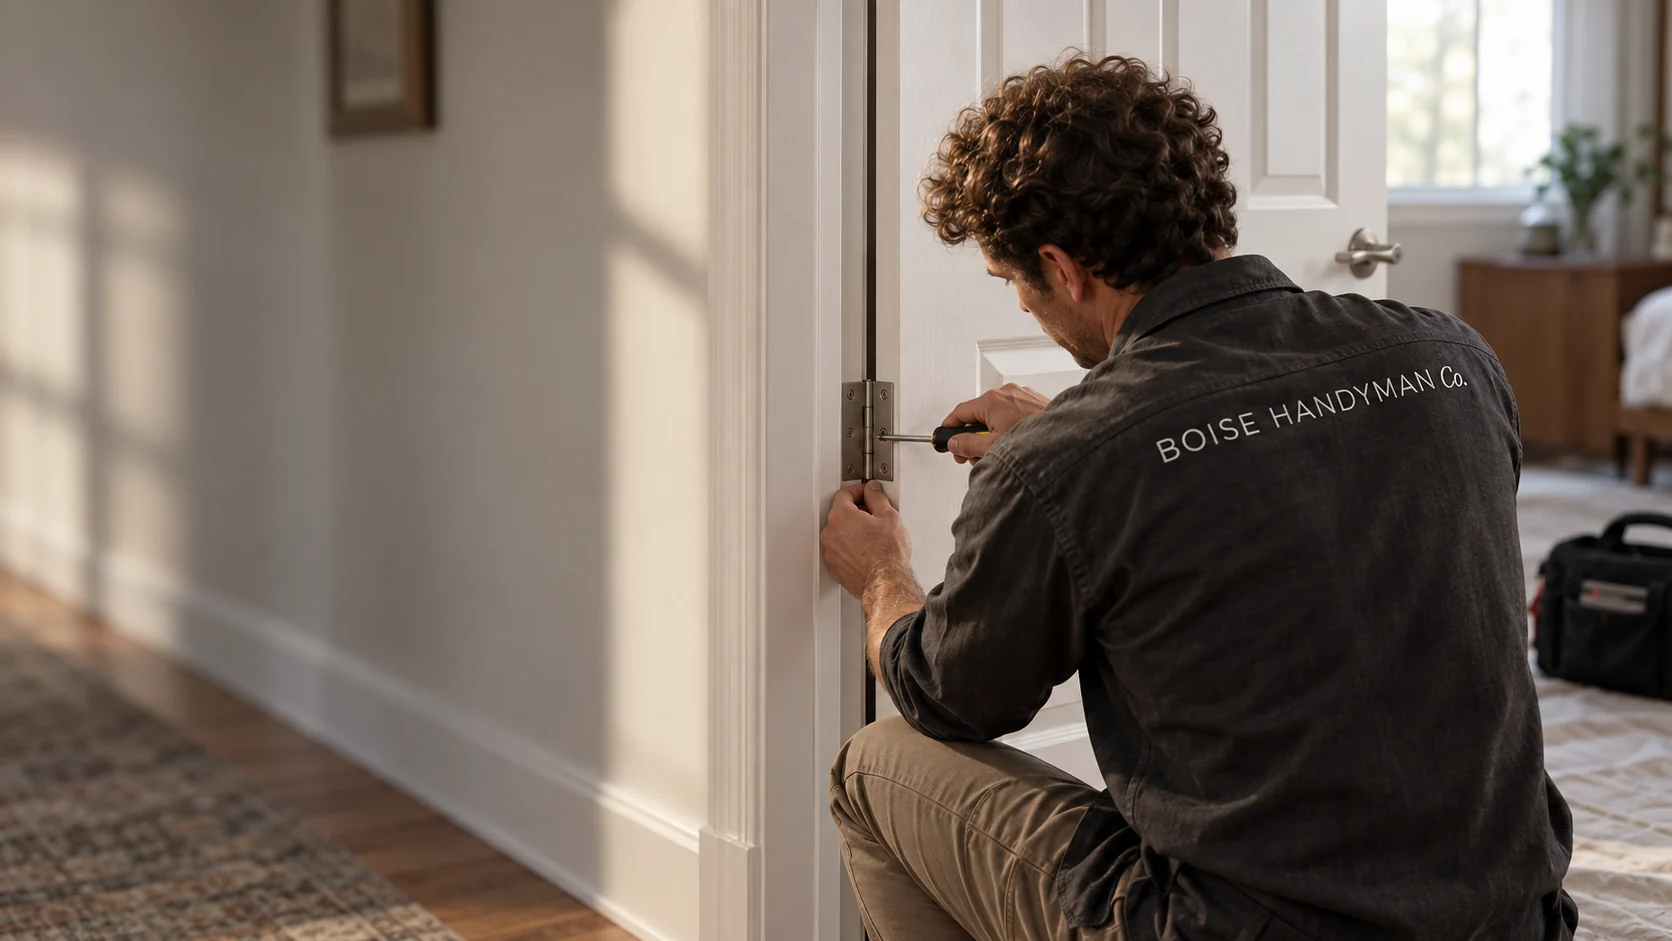
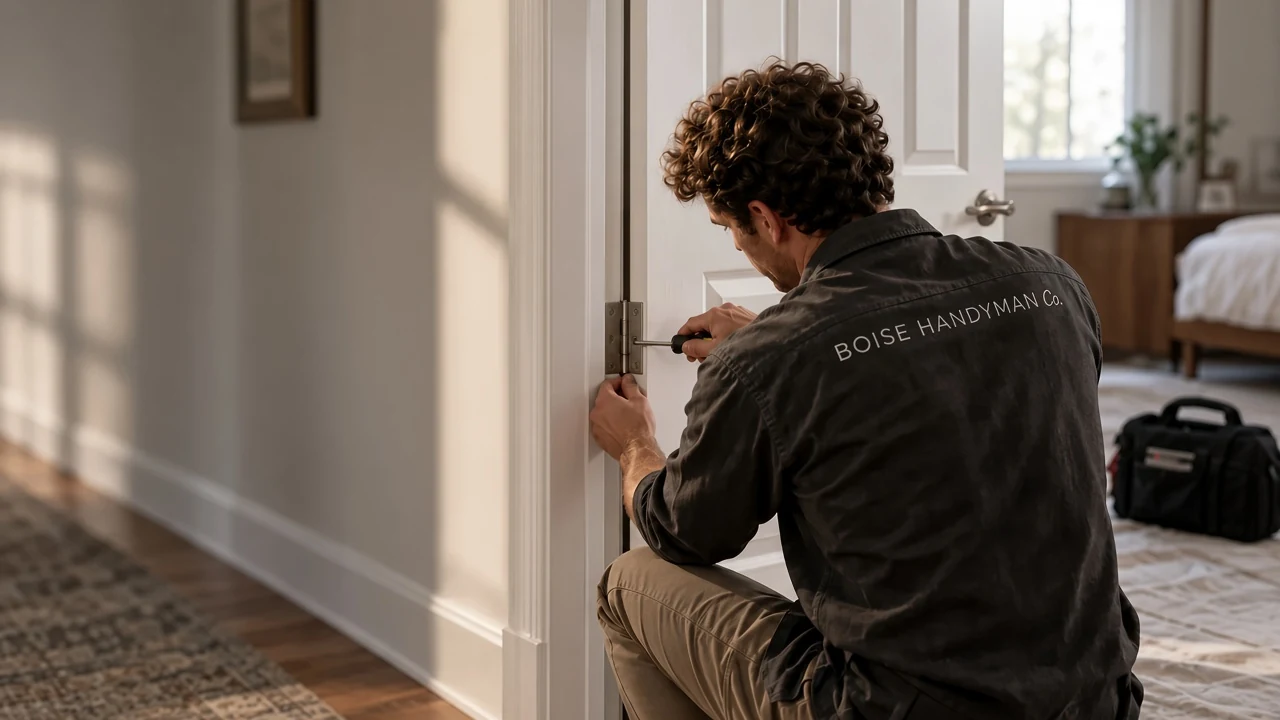
Fix Standard v2.0 must-fixes M1–M5 on home chrome and hero
Replace the home hero asset with a complete-head composition, enforce
people-safe contain framing, tighten C3 hero budgets, reduce the mobile
bottom bar to Call+Send at B6 sizes, lock header 64/76, and align Part B
section/gutter/Display tokens via design-v2-compliance.css.

diff --git a/app/design-v2-compliance.css b/app/design-v2-compliance.css
@@ -1,0 +1,276 @@
+/**
+ * Standard v2.0 compliance (Parts B / C3 / C4 / C6 / C7).
+ * Loaded after approved-system and audit-accessibility so these win the cascade.
+ */
+
+.approved-shell {
+  --gutter: 20px;
+  --section-y: 64px;
+  --section-y-compact: 32px;
+  --section-y-feature: 80px;
+  --header-h: 64px;
+  --bottom-bar-h: calc(48px + 24px + env(safe-area-inset-bottom, 0px));
+}
+
+@media (min-width: 640px) {
+  .approved-shell {
+    --gutter: 32px;
+    --section-y: 80px;
+    --section-y-compact: 48px;
+    --section-y-feature: 96px;
+    --header-h: 76px;
+  }
+}
+
+@media (min-width: 1024px) {
+  .approved-shell {
+    --gutter: 48px;
+    --section-y: 96px;
+    --section-y-feature: 128px;
+    --header-h: 76px;
+  }
+}
+
+/* M4 / C6: sticky header 64 phone / 76 tablet+desktop (+ safe-area only on top inset if present). */
+.approved-shell [data-approved-navigation] > nav {
+  height: var(--header-h) !important;
+  min-height: var(--header-h);
+  max-height: var(--header-h);
+  padding-inline: var(--gutter) !important;
+  box-sizing: border-box;
+}
+.approved-shell [data-approved-navigation] {
+  padding-top: env(safe-area-inset-top, 0px);
+}
+
+/* M5: Part B section-y + gutters for marketing sections. */
+.approved-shell .section-y {
+  padding-block: var(--section-y) !important;
+}
+.approved-shell .section-y-sm {
+  padding-block: var(--section-y-compact) !important;
+}
+.approved-shell .section-y-lg {
+  padding-block: var(--section-y-feature) !important;
+}
+.approved-shell .family-site .f-section {
+  padding-block: var(--section-y) !important;
+}
+.approved-shell .family-site .f-container,
+.approved-shell .ed-shell {
+  width: min(1260px, calc(100% - (2 * var(--gutter)))) !important;
+  max-width: none;
+  margin-inline: auto;
+  padding-inline: 0;
+}
+.approved-shell .container {
+  padding-inline: var(--gutter) !important;
+}
+
+/* M5 / S1: Display clamp to B3 (36 / 52 / 64). */
+.approved-shell .family-site h1,
+.approved-shell .family-site .f-hero h1,
+.approved-shell .family-handyman .f-hero h1 {
+  font-size: clamp(36px, 5vw + 1rem, 64px) !important;
+  line-height: 1.05;
+  letter-spacing: -0.02em;
+}
+
+/* M3 / C7: bottom bar height budget for page clearance. */
+.approved-shell {
+  padding-bottom: var(--bottom-bar-h) !important;
+}
+@media (min-width: 1180px) {
+  .approved-shell {
+    padding-bottom: 0 !important;
+    --bottom-bar-h: 0px;
+  }
+}
+.approved-shell [data-mobile-nav-bar] {
+  min-height: 0 !important;
+}
+.approved-shell [data-mobile-nav-bar] :is(a, button) {
+  min-height: 48px !important;
+  height: 48px;
+}
+
+/* ─── M1 + M2: home hero ─── */
+
+/* Desktop/tablet: auto height (do not fill the viewport). Complete hero must fit 1280×720. */
+.approved-shell .family-site .f-hero,
+.approved-shell .family-handyman .f-hero {
+  height: auto !important;
+  min-height: 0 !important;
+  max-height: none !important;
+}
+
+.approved-shell .family-handyman .f-hero > img {
+  /* People-safe: contain so cover never clips the crown on any viewport. */
+  min-height: 0 !important;
+  object-fit: contain !important;
+  object-position: center top !important;
+  background: #1c1f1e;
+}
+
+.approved-shell .family-handyman .f-hero-copy {
+  padding: clamp(32px, 4vw, 64px) clamp(24px, 6vw, 10%);
+}
+
+.approved-shell .family-handyman .f-button-secondary {
+  background: transparent;
+  color: #fbfaf6;
+  border: 1px solid rgba(251, 250, 246, 0.55);
+}
+
+/* Phone: compact first screen — H1 + primary CTA in budget; complete hero at 360/390. */
+@media (max-width: 700px) {
+  .approved-shell {
+    --bottom-bar-h: calc(48px + 24px + env(safe-area-inset-bottom, 0px));
+  }
+
+  .approved-shell .family-site .f-hero,
+  .approved-shell .family-handyman .f-hero {
+    display: grid !important;
+    grid-template-columns: minmax(0, 1fr) !important;
+    grid-template-rows: auto auto;
+    align-items: stretch;
+    position: relative;
+    isolation: isolate;
+    height: auto !important;
+    min-height: 0 !important;
+    max-height: none !important;
+    background: #1c1f1e;
+  }
+
+  /* People-safe: intrinsic 16:9 row — no max-height crop; heads stay complete. */
+  .approved-shell .family-site .f-hero > img,
+  .approved-shell .family-handyman .f-hero > img {
+    position: relative !important;
+    inset: auto !important;
+    z-index: 0;
+    grid-column: 1;
+    grid-row: 1;
+    width: 100%;
+    height: auto !important;
+    max-height: none !important;
+    min-height: 0 !important;
+    object-fit: contain !important;
+    object-position: center top !important;
+    background: #1c1f1e;
+  }
+
+  .approved-shell .family-site .f-hero-shade,
+  .approved-shell .family-handyman .f-hero-shade {
+    display: none !important;
+  }
+
+  .approved-shell .family-site .f-hero-copy,
+  .approved-shell .family-handyman .f-hero-copy {
+    position: relative;
+    z-index: 1;
+    grid-column: 1;
+    grid-row: 2;
+    width: calc(100% - (2 * var(--gutter)));
+    margin: 0 auto;
+    padding: 20px 0 16px !important;
+    background: #1c1f1e;
+    color: #fbfaf6;
+  }
+
+  .approved-shell .family-site .f-hero .f-eyebrow {
+    margin-bottom: 10px !important;
+  }
+
+  .approved-shell .family-site .f-hero h1 {
+    font-size: clamp(32px, 9vw, 40px) !important;
+    margin-bottom: 10px !important;
+  }
+
+  /* C3 sequence: shorten support copy on short phones. */
+  .approved-shell .family-site .f-hero-intro {
+    font-size: 15px;
+    line-height: 1.5;
+    max-width: 34ch;
+    margin: 0;
+    color: #eceae3;
+  }
+
+  .approved-shell .family-site .f-hero .f-actions {
+    margin-top: 14px;
+    gap: 10px;
+    flex-direction: column;
+    align-items: stretch;
+  }
+
+  .approved-shell .family-site .f-hero .f-actions .f-button {
+    width: 100%;
+    min-width: 0;
+    min-height: 48px !important;
+    height: 48px;
+    padding-block: 0;
+  }
+
+  /* One primary in the first screen; Call lives in the bottom bar. */
+  .approved-shell .family-site .f-hero .f-button-secondary,
+  .approved-shell .family-site .f-hero .f-link,
+  .approved-shell .family-site .f-hero .estimator-promise,
+  .approved-shell .family-site .f-hero .f-hero-stamp,
+  .approved-shell .family-site .f-hero .f-hero-foot {
+    display: none !important;
+  }
+}
+
+/* Very short phone (320×568): keep H1 + primary CTA only (C3 sequence — shorten copy, not crop people). */
+@media (max-width: 360px) and (max-height: 640px) {
+  .approved-shell .family-site .f-hero-intro {
+    display: none !important;
+  }
+  .approved-shell .family-site .f-hero-copy {
+    padding: 14px 0 12px !important;
+  }
+  .approved-shell .family-site .f-hero h1 {
+    font-size: clamp(30px, 8.5vw, 36px) !important;
+    margin-bottom: 8px !important;
+  }
+}
+
+@media (max-width: 360px) {
+  .approved-shell {
+    --gutter: 16px;
+  }
+}
+
+/* Desktop complete-hero budget for 1280×720: keep split compact. */
+@media (min-width: 701px) {
+  .approved-shell .family-handyman .f-hero {
+    grid-template-columns: minmax(0, 1fr) minmax(0, 1fr);
+  }
+  .approved-shell .family-handyman .f-hero > img {
+    height: auto !important;
+    max-height: min(520px, calc(100svh - var(--header-h) - 24px));
+    width: 100%;
+    align-self: center;
+    object-fit: contain !important;
+    object-position: center top !important;
+    background: #1c1f1e;
+  }
+  .approved-shell .family-handyman .f-hero-copy {
+    display: flex;
+    flex-direction: column;
+    justify-content: center;
+    max-height: min(520px, calc(100svh - var(--header-h) - 24px));
+  }
+  .approved-shell .family-handyman .f-hero-intro {
+    font-size: 17px;
+    line-height: 1.55;
+    max-width: 38ch;
+  }
+}
+
+/* Scroll clearance under sticky header. */
+.approved-shell .ed-section,
+.approved-shell .section-y,
+.approved-shell .ed-section-lg,
+.approved-shell :target {
+  scroll-margin-top: calc(var(--header-h) + 16px + env(safe-area-inset-top, 0px));
+}

diff --git a/components/approved/family-content.ts b/components/approved/family-content.ts
@@ -21,7 +21,7 @@ export const brands:Record<string,Brand>={
  svc('Room additions','room-addition','Make room for what comes next without leaving the neighborhood you love.',asset('remodeling-gallery-addition-after.webp'),['Existing-home and new-space coordination','Layout, engineering, and permit planning','Utilities, finishes, and construction scope'],['How will you use the added space?','Where could it connect to the existing home?','Do you have drawings or a survey?']),
  svc('Basement remodeling','basement-remodel','Turn unfinished square footage into useful living space.',asset('remodeling-gallery-basement-after.webp'),['Room layout and intended-use planning','Moisture, utilities, and existing-condition review','Finishes and construction scope'],['How will the space be used?','Are there existing moisture concerns?','What utilities or bathrooms are planned?']),
  svc('Outdoor living','outdoor-living','Extend daily life outside with a space that belongs to your home.',asset('remodeling-gallery-outdoor-after.webp'),['Deck and outdoor-space layout','Material, shelter, and finish coordination','Site conditions and permit considerations'],['How do you use your yard today?','Do you need shade, seating, or gathering space?','What existing structures should stay?'])],valueTitle:["Don't pay for our overhead.",'Pay for your home.'],value:'Big offices, fancy showrooms, truck fleets, and layers of management add cost. We keep our operation lean so more of what you invest goes toward the materials, labor, and finish of your remodel.',valueImage:asset('remodeling-value-craftsmanship-materials.webp'),approach:[['A written plan before the work','Your scope identifies what is included, key selections, and your project investment before construction begins.'],['A home respected throughout','Dust barriers, floor protection, and a coordinated work area help your home remain cared for during the project.'],['One team, one point of accountability','Design, permitting, and construction stay coordinated by a dedicated project manager.'],['Clear changes and Friday updates','Receive written progress updates and early budget flags. Changes require your written approval before additional work.']],process:[['A free in-home visit','Walk the space together and discuss your goals, priorities, and planning range.'],['Scope & design direction','Agree the work, layout, finish selections, and project investment.'],['Permits & preparation','Coordinate approvals, scheduling, and protection before construction begins.'],['Construction & communication','Your project manager coordinates the work and sends a written update every Friday.'],['The final walkthrough','Review the details together and receive workmanship and manufacturer warranty information.']],faq:[['Can I stay in my home during the remodel?','It depends on the rooms, utilities, and work involved. Discuss daily access and construction sequencing during planning so you can make arrangements.'],['Is the online estimate a firm bid?','It is planning guidance. A detailed evaluation, scope, and selections are needed before the project investment is confirmed.'],['How are changes handled?','Budget or scope changes are communicated in writing and require your approval before additional work proceeds.'],['Do you handle permits?','Permit coordination is included in the project planning process where the scope requires it.'],['Can you help with design selections?','Yes. Layout, design direction, and finish selections are coordinated with the scope. Optional visualizations can be discussed during consultation.'],['Do you also build ADUs?','ADUs and guest houses are among the current service offerings. P5 can coordinate the appropriate specialist for the property and scope.']],contactTitle:['Make your next chapter','feel like home.'],contactText:'Start with a free in-home visit. Talk through what is working, what is not, and what you would love to change.'},
-  handyman:{id:'handyman',name:'Boise Handyman Co',domain:'https://boisehandyman.co',accent:'#C56B4A',logo:asset('handyman-boise-handyman-co-wordmark-bone-accent.svg'),hero:handymanHero,kicker:'REPAIRS, INSTALLATIONS & HOME CARE',title:['Your list.','Handled right.'],intro:'The sticking door. The damaged drywall. The list that keeps growing. Skilled local help, one written price before work starts, and care for your home.',action:'Send your list and photos',secondary:'See how it works',proof:['Written quote before work starts','No trip fee in Ada and Canyon County','Idaho Registered Contractor #8381215'],serviceTitle:['Small jobs.','Properly done.'],serviceIntro:'One repair or a list of them. Bring the tasks together so we can plan the visit, materials, and work around what you need.',services:[
+  handyman:{id:'handyman',name:'Boise Handyman Co',domain:'https://boisehandyman.co',accent:'#C56B4A',logo:asset('handyman-boise-handyman-co-wordmark-bone-accent.svg'),hero:handymanHero,kicker:'REPAIRS, INSTALLATIONS & HOME CARE',title:['Your list.','Handled right.'],intro:'Skilled local help for the list that keeps growing. One written price before work starts.',action:'Send your list and photos',secondary:'See how it works',proof:['Written quote before work starts','No trip fee in Ada and Canyon County','Idaho Registered Contractor #8381215'],serviceTitle:['Small jobs.','Properly done.'],serviceIntro:'One repair or a list of them. Bring the tasks together so we can plan the visit, materials, and work around what you need.',services:[
  svc('RE-10 & inspection repairs','inspection-repairs','A clear path from the inspection list to agreed repair work.',asset('handyman-toolbag-ready.webp'),['Review of requested repair items and priorities','Written scope and scheduling discussion','Completion details for the agreed repair work'],['Can you share the relevant inspection pages?','What is your target completion date?','Which items have buyer and seller agreed to address?'],'/re-10-repairs-boise'),
  svc('Drywall repair & patching','drywall-repair','Take care of holes, cracks, and damaged patches with a considered finish.',asset('handyman-service-drywall-repair.webp'),['Assessment of the damaged area','Patching and finish scope','Texture and paint coordination discussed before work'],['How large is the damaged area?','Has the cause of damage been resolved?','Do you have matching paint?']),
  svc('Carpentry & trim','carpentry-trim-repair','Doors, baseboards, trim, and the details you notice every day.',asset('handyman-service-carpentry-trim-branded.webp'),['Sticking doors and hardware adjustments','Damaged baseboard and trim repairs','Small carpentry items grouped into one visit'],['What needs repairing or adjusting?','Do you have photos and approximate measurements?','Are replacement materials already available?']),

diff --git a/components/Navigation.tsx b/components/Navigation.tsx
@@ -32,7 +32,7 @@ function Logo() {
 function FunnelHeader() {
   return (
     <header data-approved-navigation className="z-[100] w-full border-b border-border bg-background">
-      <nav className="container flex h-[60px] items-center justify-between gap-4 px-4 md:px-6">
+      <nav className="container flex h-16 items-center justify-between gap-4 px-4 md:px-6 md:h-[76px]">
         <ApprovedBrand />
         <a
           href={SITE_CONFIG.phoneHref}
@@ -109,7 +109,7 @@ function MarketingNavigation() {
           scrolled && "shadow-sm",
         )}
       >
-        <nav className="container flex h-[60px] items-center justify-between gap-4 px-4 md:px-6">
+        <nav className="container flex h-16 items-center justify-between gap-4 px-4 md:px-6 md:h-[76px]">
           <Logo />
 
           <div className="hidden min-[1180px]:flex items-center gap-0">
@@ -332,38 +332,28 @@ function MarketingNavigation() {
         </nav>
       </header>
 
-      {/* Sticky bottom bar: one primary conversion action (Get an estimate)
-          plus one secondary utility action (Call). Text remains reachable in
-          the header and mobile menu, but doesn't compete for space here -
-          three equal actions diluted which one visitors actually tap. */}
+      {/* C7: one primary + at most one secondary. B6: button 48, bar pad 12 + safe-area. */}
       <div
         data-mobile-nav-bar=""
         data-p5-actions-ready={mobileActionsVisible}
-        className={cn("fixed left-0 right-0 bottom-0 z-[100] min-[1180px]:hidden pb-safe border-t bg-background border-border", (mobileOpen || pathname?.startsWith("/estimate")) && "invisible pointer-events-none")}
+        className={cn(
+          "fixed left-0 right-0 bottom-0 z-[100] min-[1180px]:hidden border-t border-border bg-background",
+          "px-3 pt-3 pb-[calc(0.75rem+env(safe-area-inset-bottom,0px))]",
+          (mobileOpen || pathname?.startsWith("/estimate")) && "invisible pointer-events-none",
+        )}
       >
-        <div className="flex items-stretch gap-2 p-2">
+        <div className="flex items-center gap-2">
           <a
             href={SITE_CONFIG.phoneHref}
-            className="flex min-h-14 w-[76px] shrink-0 flex-col gap-1 items-center justify-center rounded-sm border border-border text-foreground hover-elevate active-elevate-2"
+            className="flex h-12 w-12 shrink-0 items-center justify-center rounded-sm border border-border text-foreground hover-elevate active-elevate-2"
             aria-label={`Call ${SITE_CONFIG.phone}`}
             data-testid="button-call-mobile"
           >
-            <Phone className="h-5 w-5" strokeWidth={1.5} /><span className="text-xs font-medium">Call</span>
+            <Phone className="h-5 w-5" strokeWidth={1.5} />
           </a>
-          {["/services/drywall-repair","/services/home-maintenance"].includes(pathname ?? "") ? <a href={SITE_CONFIG.phoneSmsHref} className="flex min-h-14 w-[76px] shrink-0 items-center justify-center rounded-sm border border-border text-foreground focus-visible:ring-2 focus-visible:ring-ring">Text Us</a> : (
-          <button
-            type="button"
-            onClick={() => window.dispatchEvent(new Event("p5:assistant-open"))}
-            className="flex min-h-14 w-[76px] shrink-0 flex-col gap-1 items-center justify-center rounded-sm border border-border text-foreground hover-elevate active-elevate-2"
-            aria-label="Chat with our estimating assistant"
-            data-testid="button-chat-mobile"
-          >
-            <MessageSquare className="h-5 w-5" strokeWidth={1.5} /><span className="text-xs font-medium">Chat</span>
-          </button>
-          )}
           <NavEstimateButton
             variant="brand"
-            className="min-h-14 flex-1 text-base"
+            className="h-12 flex-1 text-sm font-medium"
             data-testid="button-begin-conversation-mobile"
             trackingLocation="mobile_sticky_bar"
           >

diff --git a/components/approved/ApprovedHomeHero.tsx b/components/approved/ApprovedHomeHero.tsx
@@ -42,16 +42,16 @@ export function ApprovedHomeHero() {
             <em>Your list, handled.</em>
           </h1>
           <p className="f-hero-summary" data-speakable="summary">{handymanServiceSentence()}</p>
-          <p>{b.intro}</p>
+          <p className="f-hero-intro">{b.intro}</p>
           <div className="f-actions">
-            {/* Calls are the conversion ads optimize for, so the number leads. */}
-            <a className="f-button" href={SITE_CONFIG.phoneHref} data-testid="button-call-hero">
-              <Phone size={18} aria-hidden="true" />
-              Call {SITE_CONFIG.phone}
-            </a>
-            <a className="f-button" href="/contact" data-cta="primary">
+            {/* Primary conversion. Call stays secondary (header / bottom bar) so the first screen stays C3-budget-safe. */}
+            <a className="f-button" href="/contact" data-cta="primary" data-testid="button-hero-primary">
               {b.action}
               <ArrowUpRight size={18} aria-hidden="true" />
+            </a>
+            <a className="f-button f-button-secondary" href={SITE_CONFIG.phoneHref} data-testid="button-call-hero">
+              <Phone size={18} aria-hidden="true" />
+              Call {SITE_CONFIG.phone}
             </a>
             <a className="f-link" href="#how-we-build">
               {b.secondary}

diff --git a/app/layout.tsx b/app/layout.tsx
@@ -27,6 +27,7 @@ import './approved-system.css'
 import './approved-interiors.css'
 import './audit-accessibility.css'
 import './design-refresh.css'
+import './design-v2-compliance.css'
 
 // P5 family typefaces, self-hosted from the same two OFL variable files P5 Home Co serves.
 const manrope = localFont({
